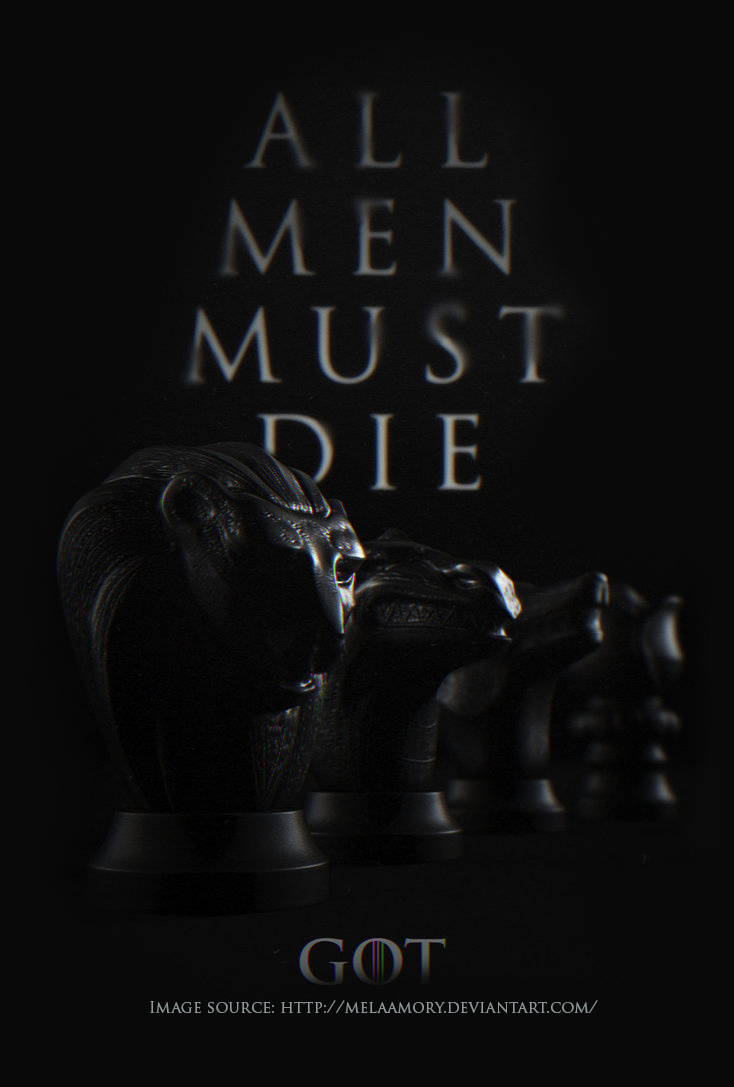
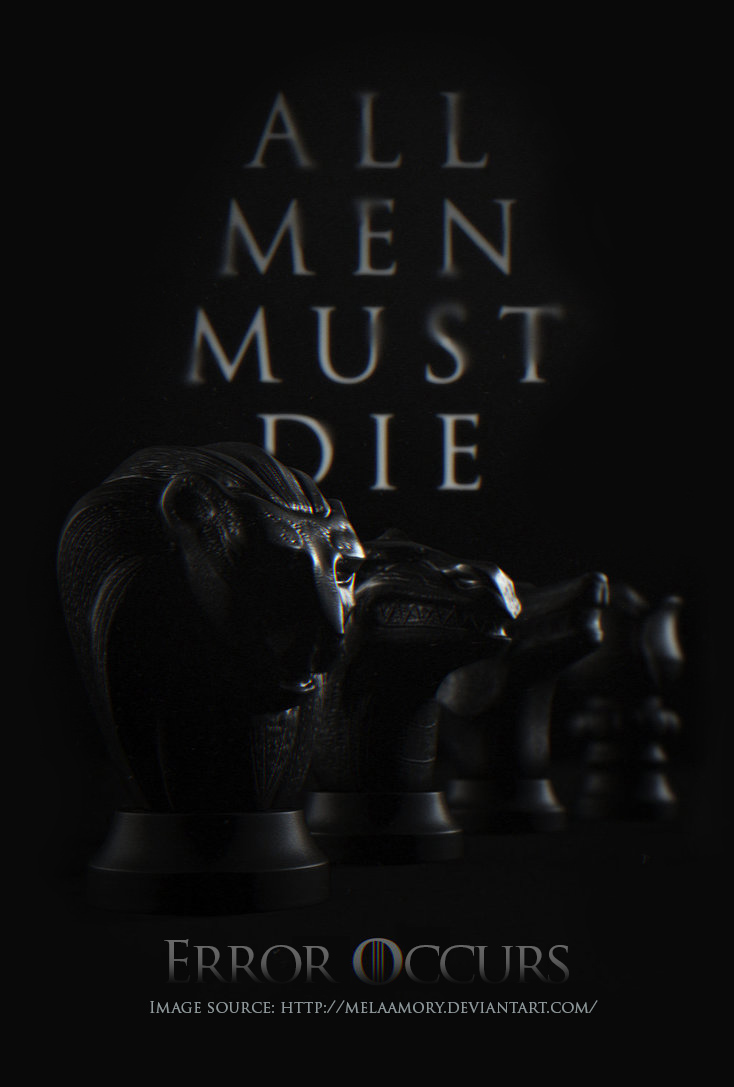
fix refresh logic

diff --git a/src/com/revo21/gotguide/MainActivity.java b/src/com/revo21/gotguide/MainActivity.java
@@ -24,7 +24,7 @@ import com.revo21.gotguide.utils.Utils;
 
 public class MainActivity extends Activity {
 	// controls
-	private WebView mWebView;
+	private WebView mWebView, mErrorWebview;
 	private ImageView mSplashImage;
 	private ActionBar mActionBar;
 	private View mProgressView;
@@ -173,6 +173,8 @@ public class MainActivity extends Activity {
 		mProgressView = (View) findViewById(R.id.progress_bar);
 		mProgressBarLayoutParams = mProgressView.getLayoutParams();
 		mWebView = (WebView) findViewById(R.id.main_webview);
+		mErrorWebview = (WebView) findViewById(R.id.error_webview);
+		mErrorWebview.loadUrl(FAILED_URL);
 		mWebView.getSettings().setJavaScriptEnabled(true);
 		mWebView.setWebViewClient(new WebViewClient() {
 			@Override
@@ -180,6 +182,10 @@ public class MainActivity extends Activity {
 				super.onPageStarted(view, url, favicon);
 				setProgressBarPercent(0);
 				mProgressView.setVisibility(View.VISIBLE);
+				if (mErrorWebview.getVisibility() == View.VISIBLE) {
+					mErrorWebview.setVisibility(View.INVISIBLE);
+					mErrorWebview.loadUrl("about:blank");
+				}
 			}
 			@Override
 			public void onPageFinished(WebView view, String url) {
@@ -210,11 +216,15 @@ public class MainActivity extends Activity {
 					String description, String failingUrl) {
 				mProgressView.setVisibility(View.INVISIBLE);
 				view.stopLoading();
-				view.loadUrl(FAILED_URL);
+				if (mErrorWebview.getVisibility() == View.INVISIBLE) {
+					mErrorWebview.setVisibility(View.VISIBLE);
+					mErrorWebview.loadUrl(FAILED_URL);
+				}
 			}
 		});
 
 		mWebView.setWebChromeClient(new WebChromeClient() {
+			/*
 			@Override
 			public void onReceivedTitle(WebView view, String title) {
 				super.onReceivedTitle(view, title);
@@ -225,7 +235,7 @@ public class MainActivity extends Activity {
 					view.stopLoading();
 					view.loadUrl(FAILED_URL);
 				}
-			}
+			}*/
 
 			public void onProgressChanged(WebView view, int progress) {
 				setProgressBarPercent(progress);
@@ -246,9 +256,11 @@ public class MainActivity extends Activity {
 	@Override
 	protected void onDestroy() {
 		super.onDestroy();
+		/*
 		if (mWebView != null) {
-			// mWebView.clearCache(true);
-		}		
+			mWebView.clearCache(true);
+		}
+		*/		
 	}
 	
 	@Override
@@ -264,7 +276,7 @@ public class MainActivity extends Activity {
 	    // Handle presses on the action bar items
 	    switch (item.getItemId()) {
 	        case R.id.action_refresh:
-	            mWebView.reload();
+	        	mWebView.reload();
 	            return true;
 	        case R.id.action_episode:
 	            // TODO openRightDrawer();
